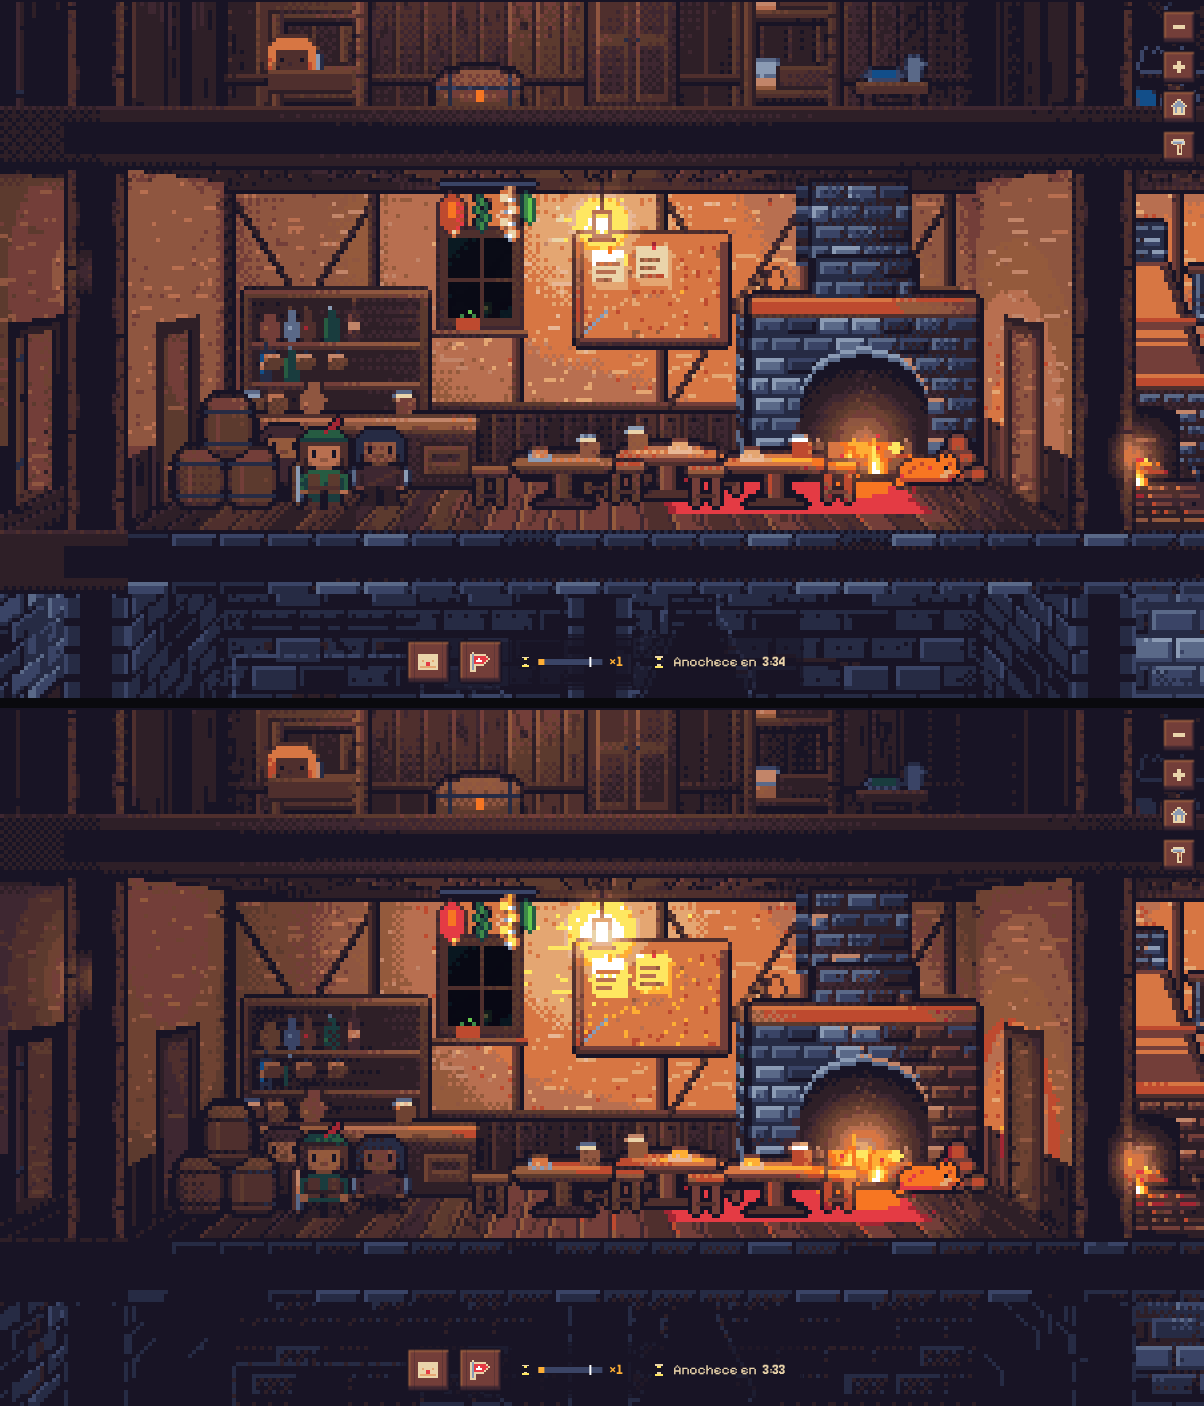
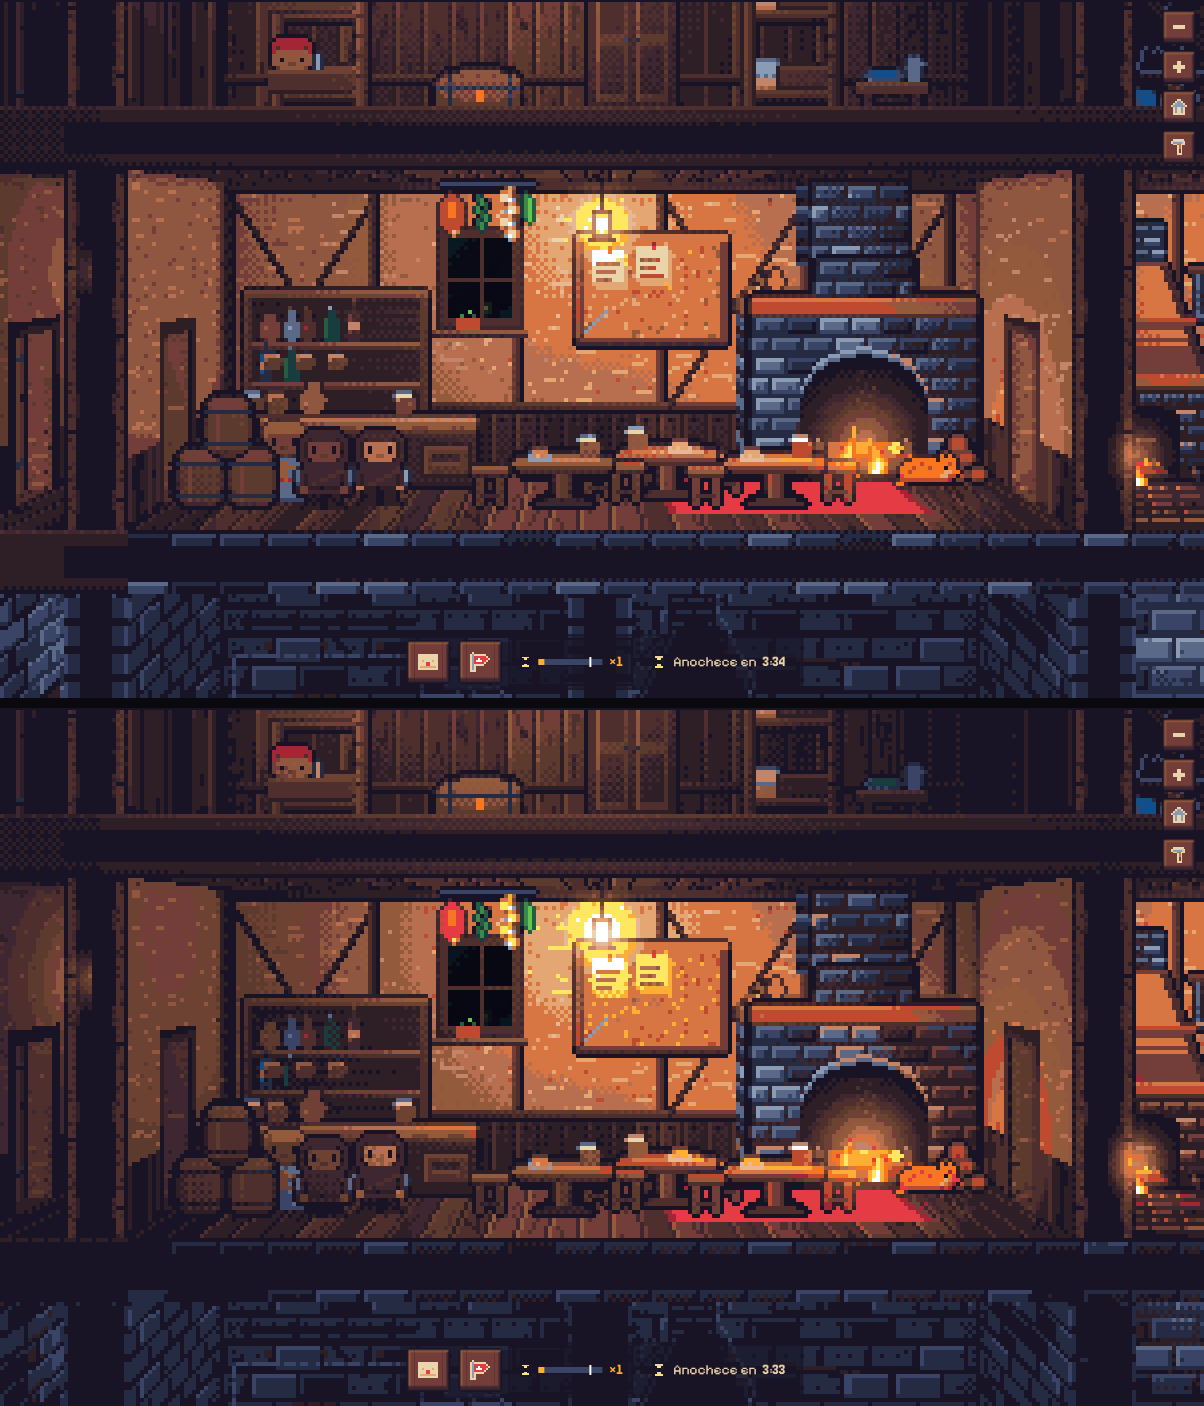
Halo solo dentro de la sala; las rotas no se oscurecen con la luz con ambiente
El usuario: «el halo de la luz transparenta los suelos» (se veían los focos de
abajo a través del forjado: la zona de cada foco incluye los forjados para
iluminar su canto, y el halo se pintaba en toda ella). Ahora el halo se queda
dentro de la sala, también con la luz de siempre. Y las salas rotas y vacías
se quedan con su luz con «Luz con ambiente» (NO_MOOD en gl.ts), como pidió.

Claude-Session: https://claude.ai/code/session_014SpyiNw8xcPCkBhD81BYzV

diff --git a/src/world/rooms/gl.ts b/src/world/rooms/gl.ts
@@ -28,6 +28,7 @@ import {
 } from 'three';
 import { P } from '../../art/palette';
 import type { PixelBuffer } from '../../art/pixel';
+import { SLAB } from './layout';
 
 /**
  * Focos que caben a la vez: van en una textura (una columna por foco: posición y alcance, color
@@ -86,6 +87,7 @@ const SURFACE_FRAG = /* glsl */ `
   uniform mat4 uProj;
   uniform float uRim;
   uniform float uAmbK;
+  uniform float uMood;
   varying vec2 vUv;
   float distAt(float d) {
     // Profundidad del búfer (0-1) a distancia a la cámara.
@@ -131,7 +133,7 @@ const SURFACE_FRAG = /* glsl */ `
     vec3 n = uNormal;
     // Luz del día solo por encima del suelo.
     // Con «luz con ambiente», menos luz de fondo dentro (las salas sin focos no bajan de 0.2).
-    vec3 amb = uSun < 0.99 && uAmbK < 1.0 ? max(uAmbient * uAmbK, min(uAmbient, vec3(0.2))) : uAmbient;
+    vec3 amb = uSun < 0.99 && uAmbK < 1.0 && uMood > 0.5 ? max(uAmbient * uAmbK, min(uAmbient, vec3(0.2))) : uAmbient;
     vec3 light = amb + uDaylight * uSun * step(-0.5, world.y);
     // El halo de las llamas: la luz que se ve en el aire alrededor de cada una. Se mide en la
     // pantalla (lo que queda cerca de la llama a la vista, esté delante o detrás) y se suma al
@@ -159,7 +161,9 @@ const SURFACE_FRAG = /* glsl */ `
         if (nb < 0.5) light += lc.rgb * a * uRim;
       }
       light += lc.rgb * a * ndl;
-      if (lc.a > 0.0) {
+      // El halo, solo dentro de la sala: la zona incluye los forjados (su canto recibe luz), pero
+      // el halo del foco de abajo no debe verse a través del suelo.
+      if (lc.a > 0.0 && world.y > z.y + ${SLAB.toFixed(1)} && world.y < z.w - ${SLAB.toFixed(1)}) {
         // El centro, donde se ve la llama dibujada (a su profundidad: si no, se corre al mover).
         vec3 hp = texelFetch(uLights, ivec2(i, 3), 0).xyz;
         vec2 ls = cameraPosition.xy + (hp.xy - cameraPosition.xy) * (cameraPosition.z / (cameraPosition.z - hp.z));
@@ -299,6 +303,12 @@ export function sharedUniforms() {
   };
 }
 
+/**
+ * Luces de fondo que no bajan con «luz con ambiente» (las salas rotas y las vacías, que ya son
+ * oscuras): la escena las apunta aquí.
+ */
+export const NO_MOOD = new WeakSet<object>();
+
 /** Sin profundidad (la primera pasada): todo «lejos», nada hace sombra. */
 const NO_DEPTH = (() => {
   const t = new DataTexture(
@@ -342,6 +352,7 @@ export class Look {
           uDither: { value: o.dither ?? 0.035 },
           uHalo: { value: o.halo ?? 1 },
           uRim: { value: (o.wrap ?? 0.25) >= 0.5 ? 0.9 : 0 },
+          uMood: { value: NO_MOOD.has(o.ambient) ? 0 : 1 },
           uUvOffset: { value: new Vector2(0, 0) },
           uUvScale: { value: new Vector2((o.repeat ?? 1) / (o.frames ?? 1), 1) },
         },

diff --git a/src/world/rooms/RoomScene.ts b/src/world/rooms/RoomScene.ts
@@ -88,7 +88,16 @@ import { FLAME_FRAMES, FLAME_H, FLAME_W, flameStrip } from './flame';
 import { faces, sideTexel, type Mat } from './volume';
 import { RaidShow } from './raid';
 import { HEARTH_RIGHT, NO_LOOK, type SalonLook } from './salon';
-import { FEW_LIGHTS, Look, MAX_LIGHTS, mesh, quad, sharedUniforms, type Corners } from './gl';
+import {
+  FEW_LIGHTS,
+  Look,
+  MAX_LIGHTS,
+  NO_MOOD,
+  mesh,
+  quad,
+  sharedUniforms,
+  type Corners,
+} from './gl';
 import { route, type Place } from './people';
 import {
   CELL_W,
@@ -177,6 +186,9 @@ const ROOM_DEEP: Tint = [0.42, 0.37, 0.52];
 const ROOM_DIM: Tint = [0.34, 0.31, 0.46];
 /** Sala rota: apagada y fría (azulada), que se distinga de lejos de las que se usan. */
 const ROOM_RUIN: Tint = [0.28, 0.31, 0.46];
+// Las rotas y las vacías se quedan con su luz con «luz con ambiente».
+NO_MOOD.add(ROOM_RUIN);
+NO_MOOD.add(ROOM_DIM);
 const STAIRS: Tint = [0.4, 0.35, 0.5];
 const CAVE: Tint = [0.3, 0.27, 0.4];
 /** El corte de la tierra y la roca, que se vea aunque no le dé ningún farol. */

diff --git a/docs/salas/README.md b/docs/salas/README.md
@@ -131,7 +131,9 @@ La lista completa de pendientes e ideas (bucle, monetización, amigos, torneos, 
   `art/heroes/look.ts`); en el retrato usan la de un héroe parecido.
 - **Luz con ambiente** (Ajustes › Imagen, `moodLight`): la luz de fondo de las salas por
   `MOOD_AMBIENT` (sin bajar de 0,2, para que las rotas y el sótano se lean) y los focos por
-  `MOOD_LAMPS`, en `RoomScene.ts`; así quedan charcos de luz. Sin marcar, la de siempre. En la
+  `MOOD_LAMPS`, en `RoomScene.ts`; así quedan charcos de luz. Las rotas y las vacías no bajan
+  (`NO_MOOD` en `gl.ts`). Sin marcar, la de siempre. El halo de los focos solo se pinta dentro
+  de la sala: antes asomaba por los forjados. En la
   misma pasada hay una prueba de sombras y luz de borde (`lit` en `gl.ts`), apagada: se enciende
   desde la consola (`window.__shadows`, `__dbg`); ver [`../estilo-cnc.md`](../estilo-cnc.md).
 - **Luces:** cada foco lleva un halo (`haloOf`) que el shader suma antes de pasar a la paleta, así
